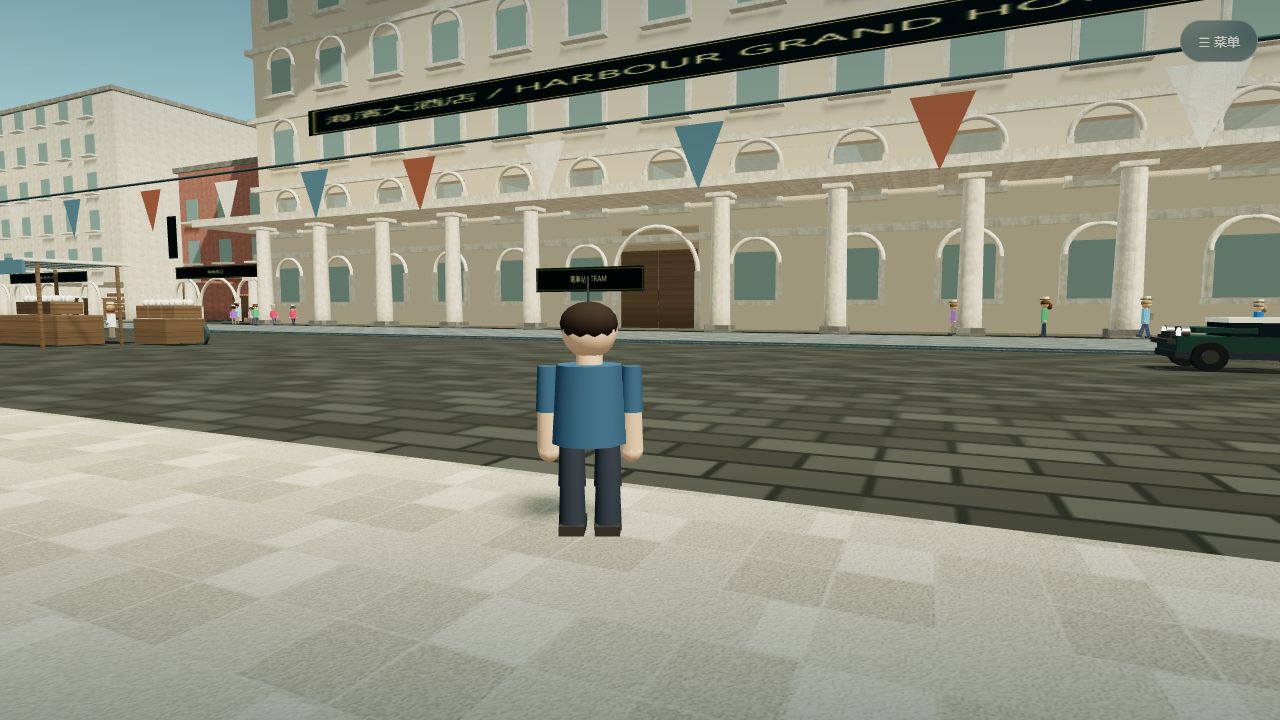
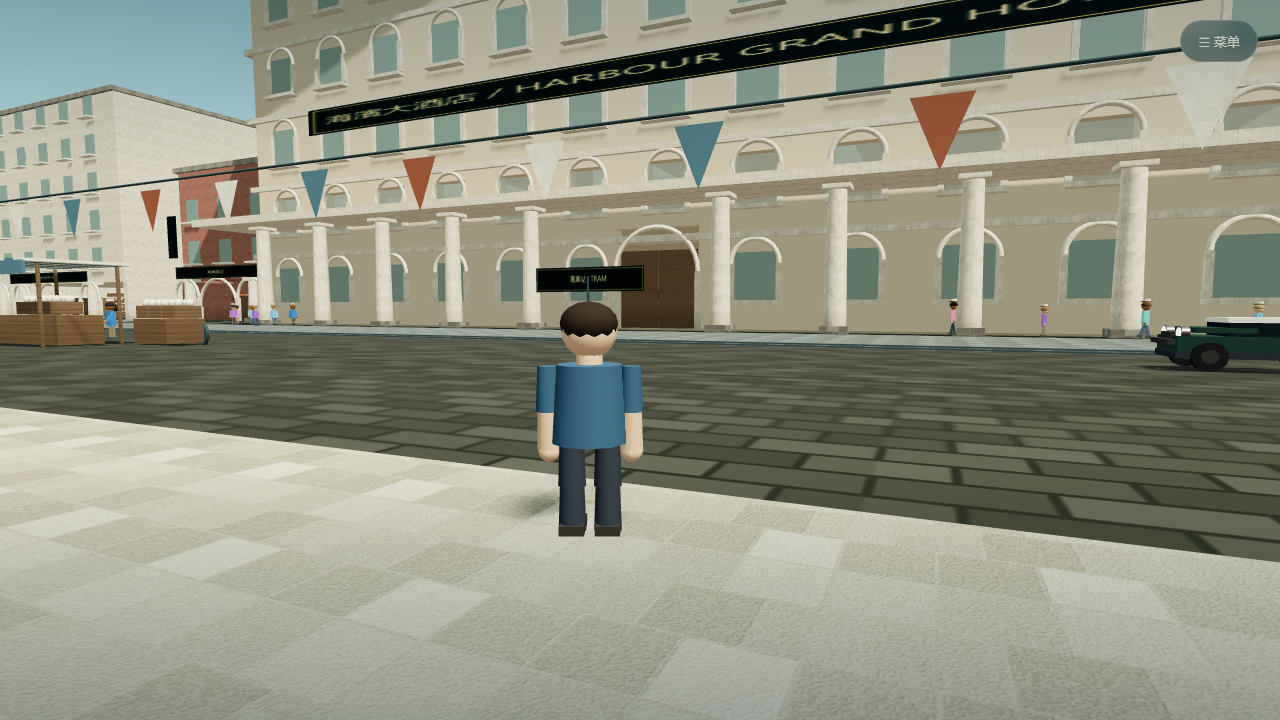
水乡的路人：胳膊拆成关节、加鞋加脖子、比例收窄
原来胳膊是两个盒子焊进躯干那批几何里的，人一走只有腿动，
上半身像块板子在滑；撑船那个尤其明显，就是一摞盒子。

- 胳膊单独做成肩关节（G.arm 和 G.leg 一样预先下移，网格原点就是关节），
  走路时和腿反向摆；举着伞的那只手不参与
- 腿下面挂鞋，跟着摆
- 头和肩之间加一小段脖子，不然头像顶在躯干上
- 比例收窄：躯干 0.52 -> 0.44，头 0.34 -> 0.28。
  人的肩宽大约是头宽的 1.6 倍，原来的比例方得像箱子

网格 140 -> 276（26 个人各多四个部件）。

说句实话：这是**改善**不是脱胎换骨，人还是盒子搭的，只是盒子多了、
比例对了。要真做好得换成锥台状的四肢和有形状的头，那是另一个量级的活。

Claude-Session: https://claude.ai/code/session_01JB5qCW8wKFmrhF96ifJ9vQ

diff --git a/journeys/watertown.js b/journeys/watertown.js
@@ -76,6 +76,9 @@ const G = {
   box:new T.BoxGeometry(1,1,1), cyl:new T.CylinderGeometry(1,1,1,8), cyl6:new T.CylinderGeometry(1,1,1,6),
   sph:new T.SphereGeometry(1,9,7), cone:new T.ConeGeometry(1,1,8), cone6:new T.ConeGeometry(1,1,6), plane:new T.PlaneGeometry(1,1),
   leg:new T.BoxGeometry(0.18,0.62,0.2).translate(0,-0.31,0),
+  // 胳膊和腿一样：几何预先下移，于是网格自身的原点就是肩关节/胯关节
+  arm:new T.BoxGeometry(0.145,0.56,0.16).translate(0,-0.28,0),
+  shoe:new T.BoxGeometry(0.2,0.1,0.28).translate(0,-0.05,0.03),
 };
 const _p=new T.Vector3(), _q=new T.Quaternion(), _s=new T.Vector3(), _e=new T.Euler();
 function M(px,py,pz, sx=1,sy=1,sz=1, rx=0,ry=0,rz=0){
@@ -748,31 +751,47 @@ const UMBS=[0xc67a3a,0x8c2f2f,0x3f5a6e,0xe9dcc0];
 function makePerson(opt){
   const g=new T.Group(); const tb=new Batch();
   const robe=new T.Color(opt.robe), dk=robe.clone().multiplyScalar(0.72);
-  tb.add(G.box,M(0,1.02,0, 0.52,0.7,0.32),robe);
-  tb.add(G.box,M(0,0.62,0, 0.56,0.42,0.36),dk);
-  tb.add(G.box,M(0,1.05,0, 0.58,0.1,0.36),0x2b2b2b);
-  tb.add(G.box,M(0,1.62,0, 0.34,0.36,0.32),opt.skin);
-  tb.add(G.box,M(0,1.79,-0.02, 0.37,0.12,0.35),0x1e1a18);
-  if(opt.hat==='straw'){ tb.add(G.cone,M(0,1.92,0, 0.66,0.28,0.66),0xb99a5e); }
-  else if(opt.hat==='bun'){ tb.add(G.sph,M(0,1.88,-0.08, 0.12,0.12,0.12),0x1e1a18); }
-  if(opt.umbrella){
-    tb.add(G.box,M(0.34,1.49,0.2, 0.14,0.55,0.14, 0.8,0,0),robe);
-    tb.add(G.box,M(-0.34,1.0,0, 0.14,0.6,0.14, -0.15,0,0),robe);
+  // 比例收一收：原来躯干 0.52 宽配 0.34 的头，方得像个箱子。
+  // 人的肩宽大约是头宽的 1.6 倍，这里按这个收。
+  tb.add(G.box,M(0,1.04,0, 0.44,0.68,0.27),robe);            // 上身
+  tb.add(G.box,M(0,0.62,0, 0.47,0.42,0.31),dk);              // 下摆
+  tb.add(G.box,M(0,1.06,0, 0.49,0.09,0.31),0x2b2b2b);        // 腰带
+  tb.add(G.box,M(0,1.60,0, 0.28,0.31,0.27),opt.skin);        // 头
+  tb.add(G.box,M(0,1.74,-0.02, 0.31,0.11,0.30),0x1e1a18);    // 头发
+  if(opt.hat==='straw'){ tb.add(G.cone,M(0,1.88,0, 0.60,0.26,0.60),0xb99a5e); }
+  else if(opt.hat==='bun'){ tb.add(G.sph,M(0,1.84,-0.08, 0.11,0.11,0.11),0x1e1a18); }
+  tb.add(G.box,M(0,1.41,0, 0.15,0.09,0.15),opt.skin);       // 脖子：头和肩之间留一段，不然像顶在躯干上
+  if(opt.umbrella){                                          // 伞是撑着的，跟着抬起的那条胳膊
     tb.add(G.cyl,M(0.36,2.1,0.4, 0.03,1.0,0.03),0x5a3a22);
     tb.add(G.cone,M(0.36,2.55,0.4, 0.98,0.32,0.98),opt.umbrella);
-  } else {
-    tb.add(G.box,M(0.34,1.0,0, 0.14,0.6,0.14, 0.15,0,0),robe);
-    tb.add(G.box,M(-0.34,1.0,0, 0.14,0.6,0.14, -0.15,0,0),robe);
   }
   const torso=tb.build(MAT.person); torso.castShadow=true; g.add(torso);
+
+  // 胳膊单独做成关节，才能跟着走路摆。原来它们焊在躯干那批几何里，
+  // 人一走只有腿在动，上半身像块板子在滑。
+  const sleeve=new T.MeshPhongMaterial({color:opt.robe,specular:0x000000,shininess:1});
   const lm=new T.MeshPhongMaterial({color:opt.pants||0x2a2d33,specular:0x000000,shininess:1});
-  const ll=new T.Mesh(G.leg,lm), rl=new T.Mesh(G.leg,lm);
-  ll.position.set(-0.13,0.66,0); rl.position.set(0.13,0.66,0); ll.castShadow=rl.castShadow=true; g.add(ll); g.add(rl);
-  return {g,torso,ll,rl,phase:rr(0,TAU)};
+  const shoeM=new T.MeshPhongMaterial({color:0x241d18,specular:0x000000,shininess:1});
+  const limb=(geo,mat,x,y)=>{const m=new T.Mesh(geo,mat);m.position.set(x,y,0);m.castShadow=true;g.add(m);return m;};
+  const la=limb(G.arm,sleeve,-0.27,1.33), ra=limb(G.arm,sleeve,0.27,1.33);
+  const ll=limb(G.leg,lm,-0.13,0.66),     rl=limb(G.leg,lm,0.13,0.66);
+  for(const [leg,shoe] of [[ll,new T.Mesh(G.shoe,shoeM)],[rl,new T.Mesh(G.shoe,shoeM)]]){
+    shoe.position.y=-0.62;shoe.castShadow=true;leg.add(shoe);   // 鞋挂在腿下面，跟着摆
+  }
+  if(opt.umbrella){ ra.rotation.x=-1.15; ra.rotation.z=-0.12; } // 举伞的那只手不参与摆臂
+  return {g,torso,ll,rl,la,ra,holding:!!opt.umbrella,phase:rr(0,TAU)};
 }
 function animPerson(p,speed,dt){
-  if(speed>0){ p.phase+=dt*speed*4.4; const s=Math.sin(p.phase); p.ll.rotation.x=s*0.62; p.rl.rotation.x=-s*0.62; p.torso.position.y=Math.abs(Math.cos(p.phase))*0.05; }
-  else { p.ll.rotation.x*=0.85; p.rl.rotation.x*=0.85; p.torso.position.y*=0.85; }
+  if(speed>0){
+    p.phase+=dt*speed*4.4; const s=Math.sin(p.phase);
+    p.ll.rotation.x=s*0.62; p.rl.rotation.x=-s*0.62;
+    // 手脚反向：迈左腿甩右手。举着伞的那只手不动。
+    if(p.la){ p.la.rotation.x=-s*0.5; if(!p.holding) p.ra.rotation.x=s*0.5; }
+    p.torso.position.y=Math.abs(Math.cos(p.phase))*0.05;
+  } else {
+    p.ll.rotation.x*=0.85; p.rl.rotation.x*=0.85; p.torso.position.y*=0.85;
+    if(p.la){ p.la.rotation.x*=0.85; if(!p.holding) p.ra.rotation.x*=0.85; }
+  }
 }
 
 /* ---------- 镇上的人 ---------- */
